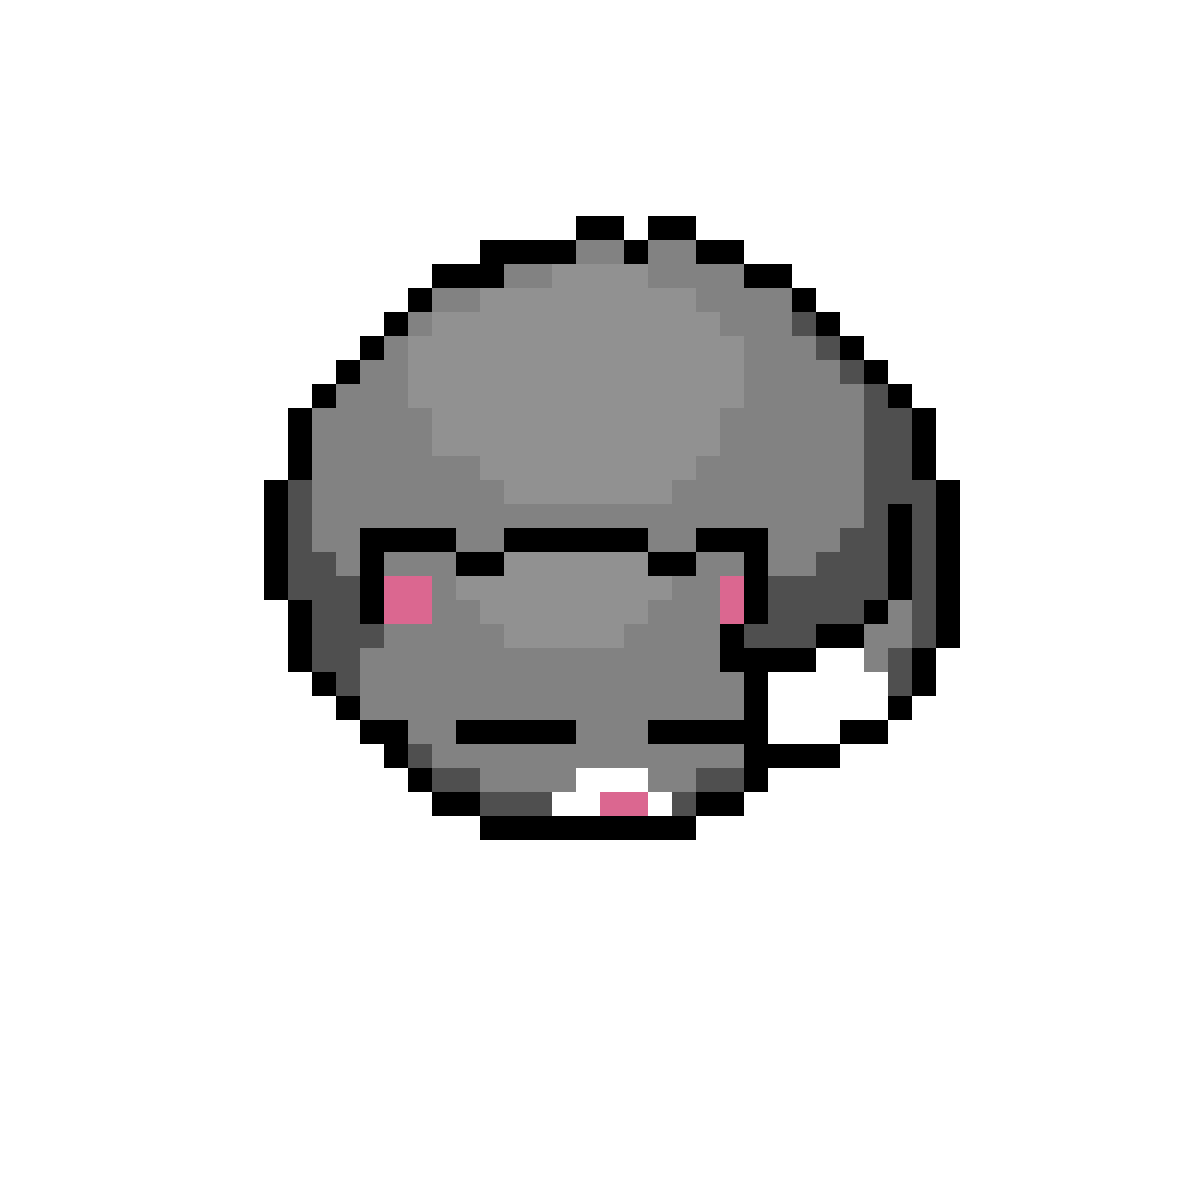
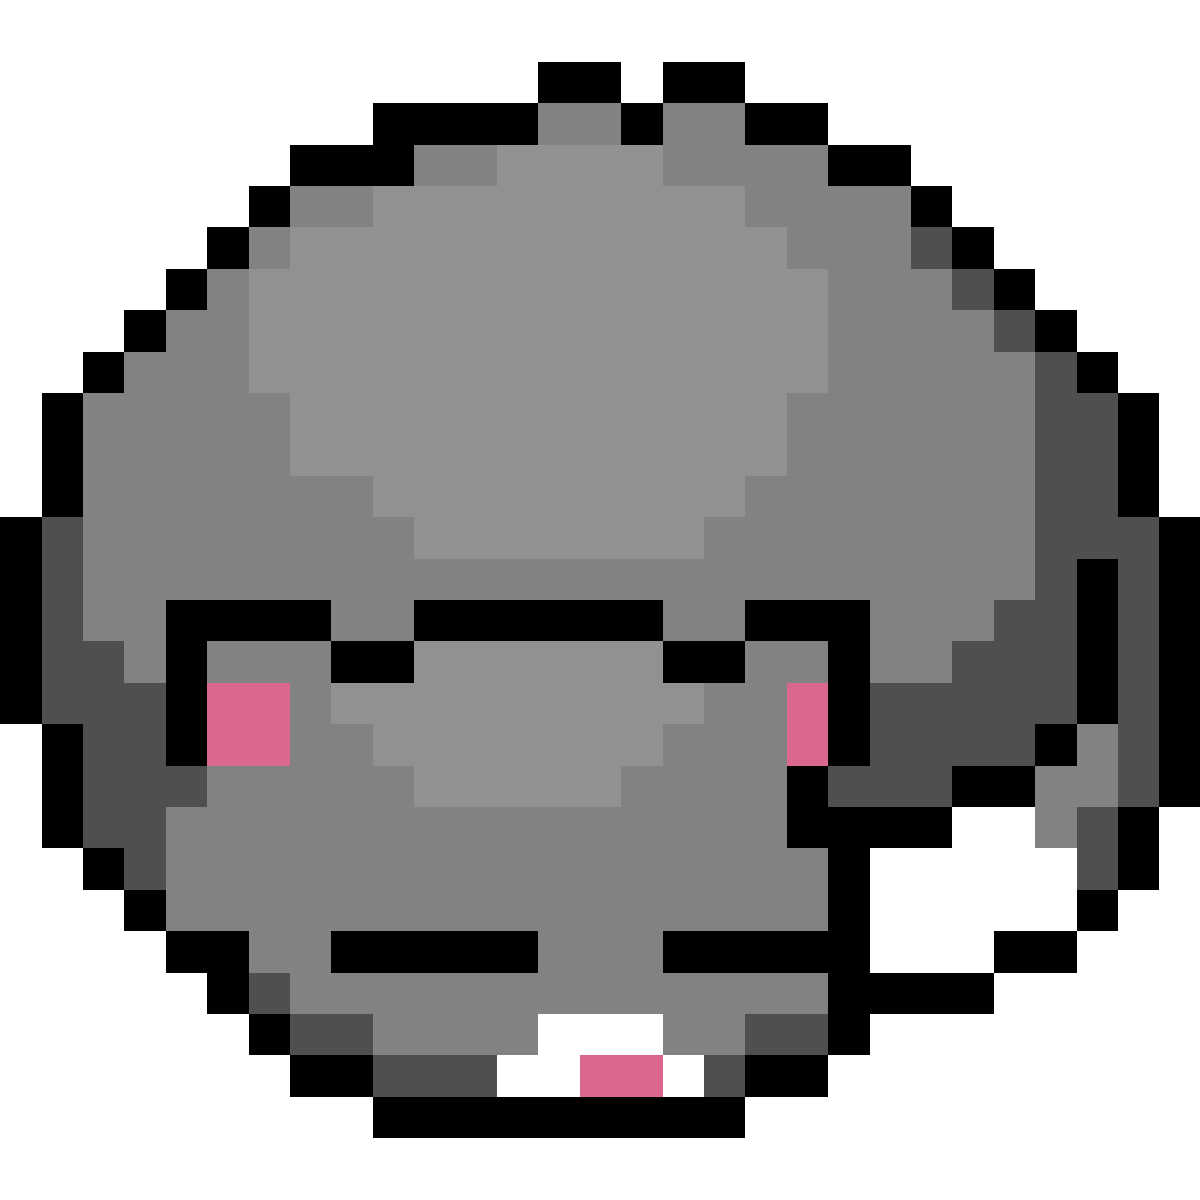
homepage sleepy cat fixed

diff --git a/react-app/src/components/Pages/HomePage/HomePage.js b/react-app/src/components/Pages/HomePage/HomePage.js
@@ -1,119 +1,95 @@
-// IMPORT REACT STUFF --------
+// -------- IMPORT REACT STUFF -------- //
 import React, { useEffect } from "react";
 import { useDispatch, useSelector } from "react-redux";
-import { NavLink, Link } from "react-router-dom";
-// IMPORT COMPONENTS WE'RE USING --------
-import PostCard from "../../Posts/Elements/PostCard/PostCard";
-// IMPORT THUNKS WE NEED TO DISPATCH --------
-import { acquireAllComments } from "../../../store/comments";
-import { acquirePosts } from "../../../store/posts";
-import "./images.css";
-import homepageImg from "../../../images/homepage-img.jpg";
-import sleepinCat from "../../../images/sleepin-cat.png"
-
 import { HashLink } from "react-router-hash-link";
+// -------- COMPONENTS -------- //
+import PostCard from "../../Posts/Elements/PostCard/PostCard";
+// --------- THUNKS -------- //
+import { getAllCommentsThunk } from "../../../store/comments";
+import { getAllPostsThunk } from "../../../store/posts";
+// --------- CSS AND IMAGES -------- //
+import "./images.css";
+import sleepinCat from "../../../images/sleepin-cat.png";
 
-// PAGE THAT DISPLAYS ALL OF OUR POSTS
-function ExplorePage() {
-  // NEED TO DO THIS TO BE ABLE TO DISPATCH
+function HomePage() {
   const dispatch = useDispatch();
   // PULLING ALL OF THE INFORMATION FROM OUR STATE
   // THIS RUNS FIRST BEFORE USEEFFECT FETCHES OUR DATA WHICH IS WHY WE ALWAYS HAVE TO IMPLEMENT
   // OUR CONDITIONALS (posts && posts.map()) TO HANDLE THE CASES WHERE WE DONT HAVE DATA YET
   const posts = Object.values(useSelector((state) => state.posts));
-
   const comments = Object.values(useSelector((state) => state.comments));
-
   const user = useSelector((state) => state.session.user);
   const users = useSelector((state) => Object.values(state.user));
 
-  const shuffledUsers = users.sort(() => Math.random() - 0.5);
-
   const postImages = posts.filter((post) => post.image_url);
+  const shuffledUsers = users.sort(() => Math.random() - 0.5);
 
   // WE ADD DISPATCH TO THE DEPENDENCY ARR SO THAT IT DOESNT RERENDER A MILLION TIMES, I JUST CANT EXPLAIN IT WELL
   useEffect(() => {
-    // GET ALL POSTS THUNK
-    dispatch(acquirePosts());
-    // GET ALL COMMENTS THUNK
-    dispatch(acquireAllComments());
+    // GET ALL POSTS
+    dispatch(getAllPostsThunk());
+    // GET ALL COMMENTS
+    dispatch(getAllCommentsThunk());
   }, [dispatch]);
 
   return (
     <div className="background">
       <div className="container-titles-and-img-divs">
         <div className="title-container">
-          <h1
-            id="title"
-          >
+          <h1 className="title">
             <span>Z</span>
             <span className="onambulo">O N A M B U L O</span>
           </h1>
-          <h1
-            id="title"
-          >
+          <h1 className="title">
             <span>z</span>
             <span className="onambulo">O N A M B U L O</span>
           </h1>
-          <h1
-            id="title"
-          >
+          <h1 className="title">
             <span>Z</span>
             <span className="onambulo">O N A M B U L O</span>
           </h1>
-          <h1
-            id="title"
-          >
+          <h1 className="title">
             <span>z</span>
             <span className="onambulo">O N A M B U L O</span>
           </h1>
-          <h1
-            id="title"
-          >
+          <h1 className="title">
             <span>z</span>
             <span className="onambulo">O N A M B U L O</span>
           </h1>
-          <h1
-            id="title"
-          >
+          <h1 className="title">
             <span>Z</span>
             <span className="onambulo">O N A M B U L O</span>
           </h1>
-          <h1
-            id="title"
-          >
+          <h1 className="title">
             <span>Z</span>
             <span className="onambulo">O N A M B U L O</span>
           </h1>
-          <h1
-            id="title"
-          >
+          <h1 className="title">
             <span>z</span>
             <span className="onambulo">O N A M B U L O</span>
           </h1>
-          <h1
-            id="title"
-          >
+          <h1 className="title">
             <span>z</span>
             <span className="onambulo">O N A M B U L O</span>
           </h1>
-          <h1
-            id="title"
-          >
+          <h1 className="title">
             <span>z</span>
             <span className="onambulo">O N A M B U L O</span>
           </h1>
         </div>
-        <div
-          className="cat-image-container"
-        >
-          <img style={{
-            width: '15vw',
-            paddingLeft: '2vw',
-            float:'left'
-          }} src={sleepinCat} />
+        <div className="cat-image-and-title-container">
+          <div className="cat-image-container" style={{
+            backgroundImage: 'url(' + sleepinCat + ')',
+            backgroundPosition: 'center',
+            backgroundSize: 'contain',
+            backgroundRepeat: 'no-repeat'
+          }}>
+            {/* <img id="cat-image" src={sleepinCat} /> */}
+          </div>
+          <div className="home-subtitle-container">
+            <div className="home-subtitle">Log Your Dreams</div>
+          </div>
         </div>
-        <div className="home-subtitle">Log Your Dreams</div>
       </div>
       <div id="imageCard">
         {postImages.map((image) => {
@@ -155,4 +131,4 @@ function ExplorePage() {
   );
 }
 
-export default ExplorePage;
+export default HomePage;

diff --git a/react-app/src/components/Pages/HomePage/images.css b/react-app/src/components/Pages/HomePage/images.css
@@ -51,7 +51,7 @@
   width: 50%;
 }
 
-#title {
+.title {
   color: 'white';
   margin-top: 40px;
   margin-left: 10px;
@@ -66,6 +66,8 @@
   font-weight: 800;
   font-size: 3.2vw;
   font-stretch: ultra-condensed;
+
+  /* MIRROR UPSIDEDOWN */
   /* -moz-transform: scale(1, -1);
   -webkit-transform: scale(1, -1);
   -o-transform: scale(1, -1);
@@ -101,26 +103,66 @@
   /* border: 1px solid blue */
 }
 
-.cat-image-container { /*  WHITE  */
+.cat-image-and-title-container { /*  WHITE  */
   height: 20vh;
-  width: 20vw;
+  width: 40vw;
   position: absolute;
   float: left;
-  bottom: -57px;
+  /* padding-left: 2vw; */
+  bottom: -55px;
   /* border: 1px solid white; */
+}
+
+.cat-image-container {
+  position: relative;
+  display: flex;
+  justify-content: center;
+  width: 36%;
+  height: 100%;
+  float: left;
+  /* border: 1px solid orange; */
+}
+
+#cat-image {
+  height: 100%;
+  max-height: 100%;
+  /* padding-top: 1vw; */
+  /* border: 1px solid green; */
 }
 
 .background {
   /* border: 1px solid green; */
 }
 
-.home-subtitle {
+.home-subtitle-container {
   font-family: 'syne';
-  position: absolute;
-  right: 40px;
+  position: relative;
+  display: flex;
+  justify-content: center;
+  align-items: center;
+  /* right: 40px; */
+  float: right;
+  width: 64%;
+  height: 100%;
   bottom: 0;
-  font-size: 44px;
+  /* font-size: 100%; */
+  /* border: 1px solid violet; */
 }
+
+.home-subtitle {
+  /* width: 80%;
+  height: 80%; */
+  display: flex;
+  justify-content: center;
+  align-items: center;
+  font-size: 2.7vw;
+  font-family: 'syne';
+  width: 100%;
+  height: 100%;
+  /* border: 1px solid purple; */
+
+}
+
 
 @media(max-width:800px){
   #imageCard {

diff --git a/react-app/src/components/Pages/PostsPage/Posts.js b/react-app/src/components/Pages/PostsPage/Posts.js
@@ -5,8 +5,8 @@ import { NavLink } from "react-router-dom";
 // IMPORT COMPONENTS WE'RE USING --------
 import PostCard from "../../Posts/Elements/PostCard/PostCard";
 // IMPORT THUNKS WE NEED TO DISPATCH --------
-import { acquireAllComments } from "../../../store/comments";
-import { acquirePosts } from "../../../store/posts";
+import { getAllCommentsThunk } from "../../../store/comments";
+import { getAllPostsThunk } from "../../../store/posts";
 import "./Posts.css";
 
 // PAGE THAT DISPLAYS ALL OF OUR POSTS
@@ -28,9 +28,9 @@ function Posts({}) {
   // WE ADD DISPATCH TO THE DEPENDENCY ARR SO THAT IT DOESNT RERENDER A MILLION TIMES, I JUST CANT EXPLAIN IT WELL
   useEffect(() => {
     // GET ALL POSTS THUNK
-    dispatch(acquirePosts());
+    dispatch(getAllPostsThunk());
     // GET ALL COMMENTS THUNK
-    dispatch(acquireAllComments());
+    dispatch(getAllCommentsThunk());
   }, [dispatch]);
 
   return (

diff --git a/react-app/src/App.js b/react-app/src/App.js
@@ -8,10 +8,9 @@ import CreatePost from "./components/Pages/CreatePostPage/CreatePost";
 import { authenticate } from "./store/session";
 import Signup from "./components/auth/Pages/SignupPage/Signup";
 import Footer from "./components/Global/Elements/Footer/index";
-import ExplorePage from "./components/Pages/ExplorePage/ExplorePage";
+import HomePage from "./components/Pages/HomePage/HomePage";
 import ErrorPage from "./components/Pages/404/404";
-import { acquirePosts } from "./store/posts";
-import { acquireAllComments } from "./store/comments";
+
 
 function App() {
   const [loaded, setLoaded] = useState(false);
@@ -35,7 +34,7 @@ function App() {
       <NavBar />
       <Switch>
         <Route path="/" exact={true}>
-          <ExplorePage />
+          <HomePage />
         </Route>
         <Route path="/posts" exact={true}>
           <Posts />

diff --git a/react-app/src/store/posts.js b/react-app/src/store/posts.js
@@ -83,9 +83,9 @@ export const makePost =
     }
   };
 
-export const acquirePosts = () => async (dispatch) => {
+export const getAllPostsThunk = () => async (dispatch) => {
   const response = await fetch("/api/posts/");
-  console.log("inside acquirePosts thunk", response);
+  console.log("inside getAllPostsThunk thunk", response);
   if (response.ok) {
     const data = await response.json();
     dispatch(readPost(data));

diff --git a/react-app/src/store/comments.js b/react-app/src/store/comments.js
@@ -29,7 +29,7 @@ const deleteComment = (commentId) => ({
 });
 
 /***************************** THUNKS ***************************************/
-export const acquireAllComments = () => async (dispatch) => {
+export const getAllCommentsThunk = () => async (dispatch) => {
   const response = await fetch(`/api/comments/all`);
 
   if (response.ok) {

diff --git a/react-app/src/components/Global/Elements/Navbar/NavBar.js b/react-app/src/components/Global/Elements/Navbar/NavBar.js
@@ -24,7 +24,7 @@ const NavigationBar = styled.div`
 const Logo = styled.img`
   position: absolute;
   top: 0;
-  width: 4rem;
+  width: 3rem;
   height: auto;
   padding-top: 0%;
   align-self: center;
